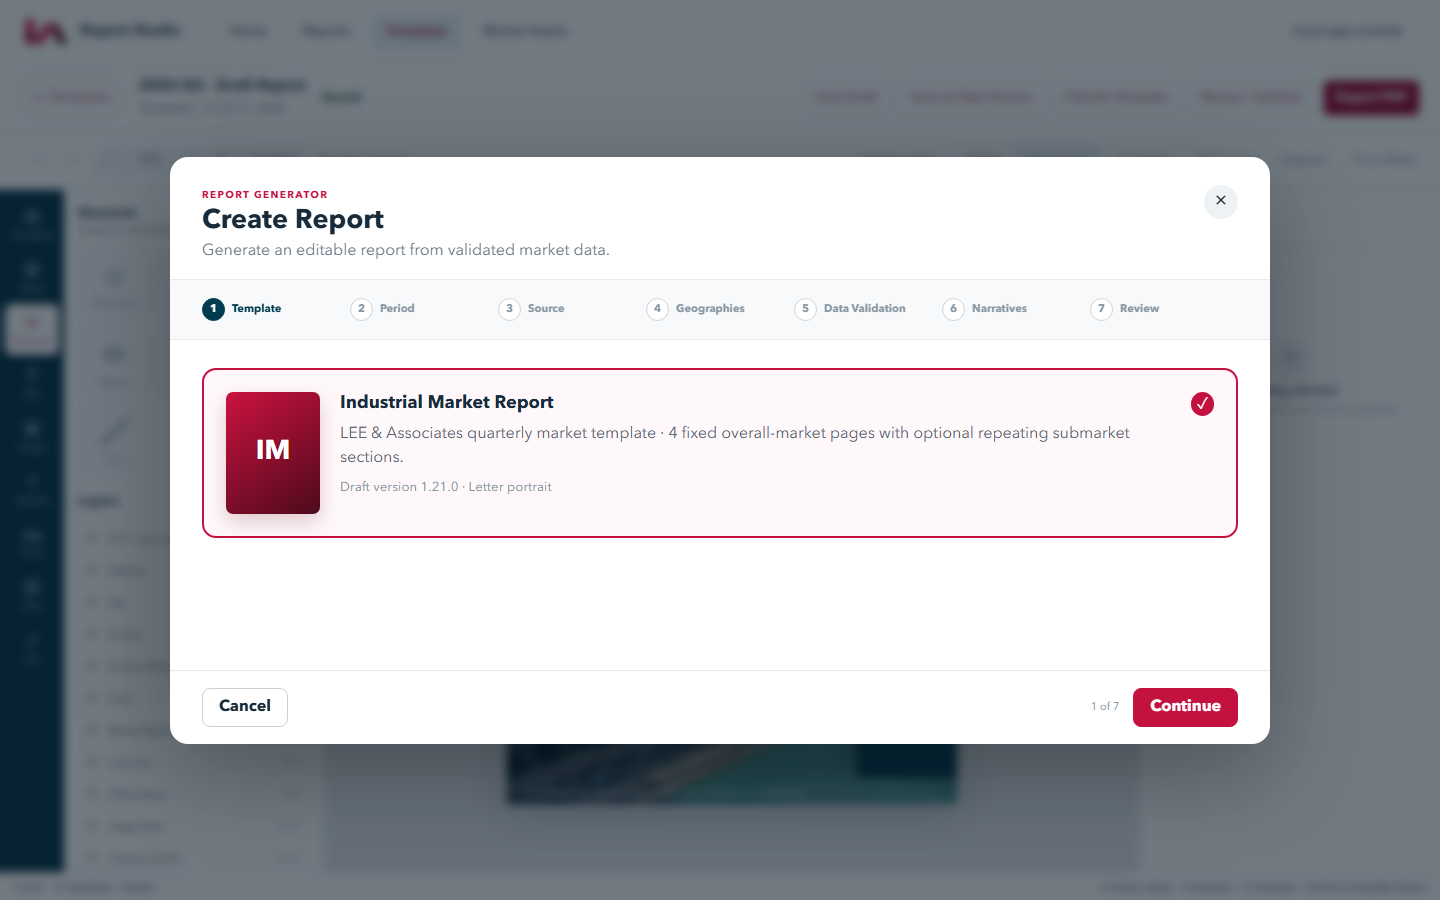
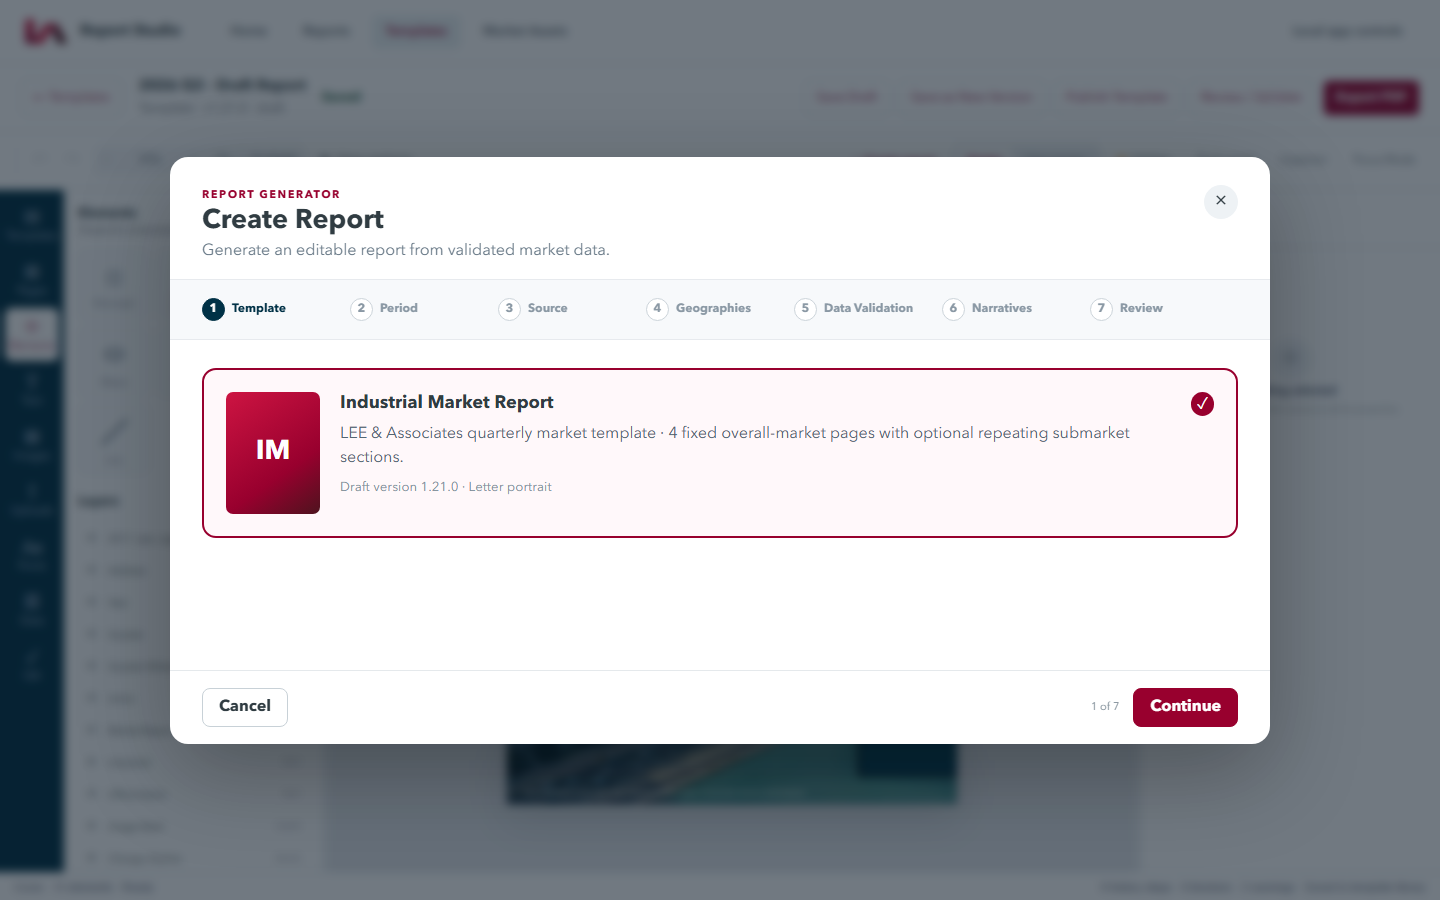
Wait for document hydration and select complete QA fixtures

diff --git a/tests/visual/qa-advisory-pages.spec.ts b/tests/visual/qa-advisory-pages.spec.ts
@@ -1,10 +1,24 @@
 import { expect, test } from "@playwright/test";
 import { sampleTemplate } from "../../src/data/sampleTemplate";
 
+async function openCompleteFixture(page: import("@playwright/test").Page) {
+  await page.goto("/?editor=1", { waitUntil: "load" });
+  await expect(page.locator(".document-loading")).toBeHidden();
+  const listing = await (await page.request.get("/api/templates")).json();
+  const source = listing.templates.filter((item: { status: string; pageDefinitionCount: number }) => item.status === "draft" && item.pageDefinitionCount === sampleTemplate.pages.length)[0];
+  expect(source, "QA navigation requires the complete report fixture").toBeTruthy();
+  await page.locator(".rail").getByTitle("Templates").click();
+  const card = page.locator(".template-version-list section").filter({ hasText: `v${source.version} \u00b7 draft` });
+  const loaded = page.waitForResponse(response => response.request().method() === "GET" && response.url().endsWith(`/versions/${source.version}`));
+  await card.getByRole("button", { name: "Open Draft", exact: true }).click();
+  expect((await loaded).ok()).toBeTruthy();
+  await expect(page.locator(".document-header")).toContainText(`v${source.version}`);
+}
+
 test("Pages is a dedicated, independently scrollable navigation panel", async ({
   page,
 }) => {
-  await page.goto("/?editor=1", { waitUntil: "load" });
+  await openCompleteFixture(page);
 
   const navTitles = await page
     .locator(".rail > button")
@@ -56,7 +70,7 @@ test("warnings can be reviewed or explicitly accepted without individual dismiss
   page,
 }) => {
   test.setTimeout(120_000);
-  await page.goto("/?editor=1", { waitUntil: "load" });
+  await openCompleteFixture(page);
 
   await page.getByRole("button", { name: "Export PDF" }).click();
   const dialog = page.getByRole("dialog", {

diff --git a/tests/visual/native-closing-lifecycle.spec.ts b/tests/visual/native-closing-lifecycle.spec.ts
@@ -7,12 +7,16 @@ import type { StoredTemplateVersion } from "../../src/types/templateLibrary";
 
 async function openVersion(page: Page, version: string) {
   await page.goto("/?editor=1");
+  await expect(page.locator(".document-loading")).toBeHidden();
   await page.locator(".rail").getByRole("button", { name: /Templates/ }).click();
   const card = page
     .locator(".template-version-list section")
     .filter({ hasText: `v${version} · draft` });
   await expect(card).toBeVisible();
+  const loaded = page.waitForResponse(response => response.request().method() === "GET" && response.url().endsWith(`/versions/${version}`));
   await card.getByRole("button", { name: "Open Draft", exact: true }).click();
+  expect((await loaded).ok()).toBeTruthy();
+  await expect(page.locator(".document-header")).toContainText(`v${version}`);
 }
 
 test("native closing pages export through the production Chromium HTTP path", async ({
